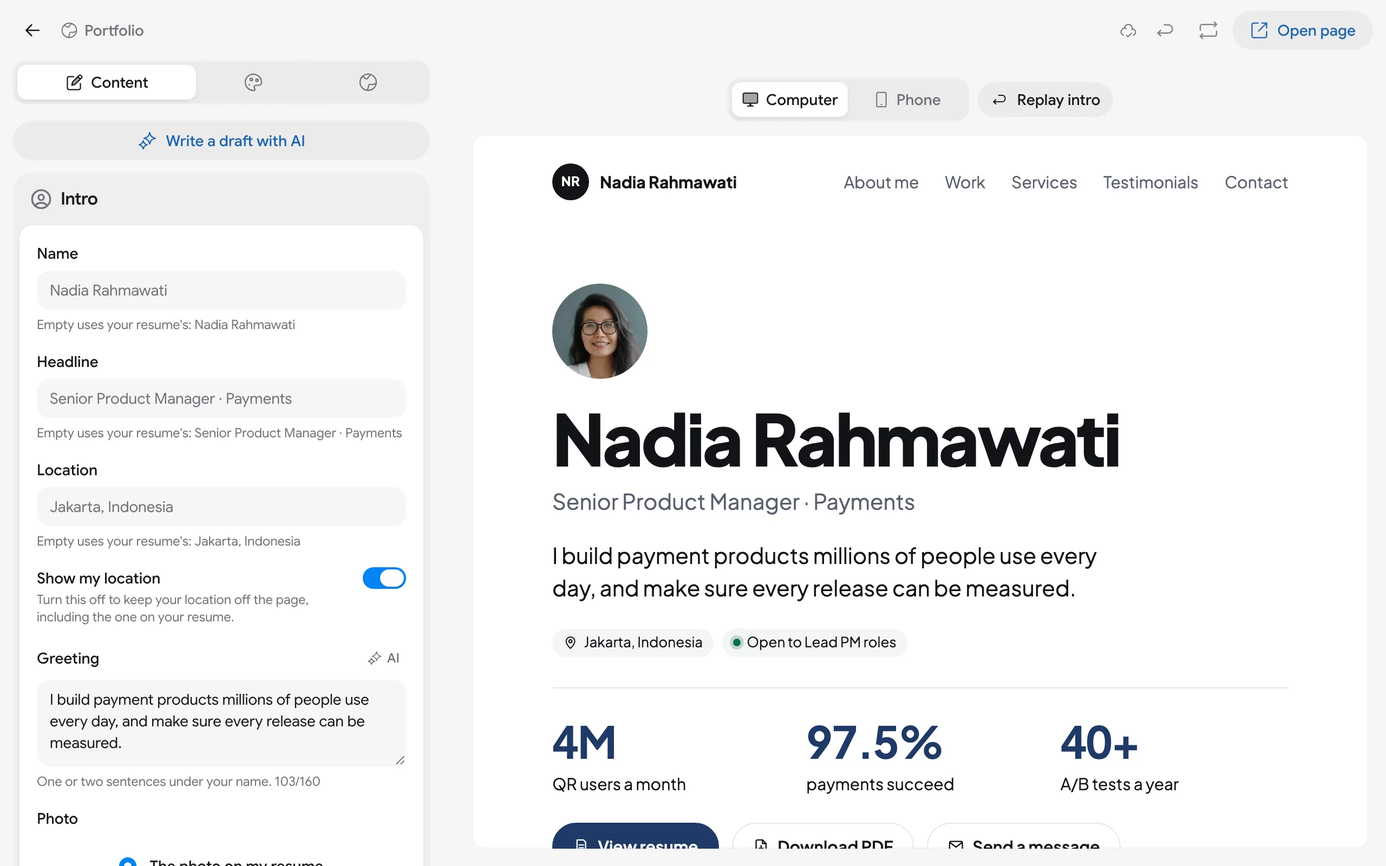
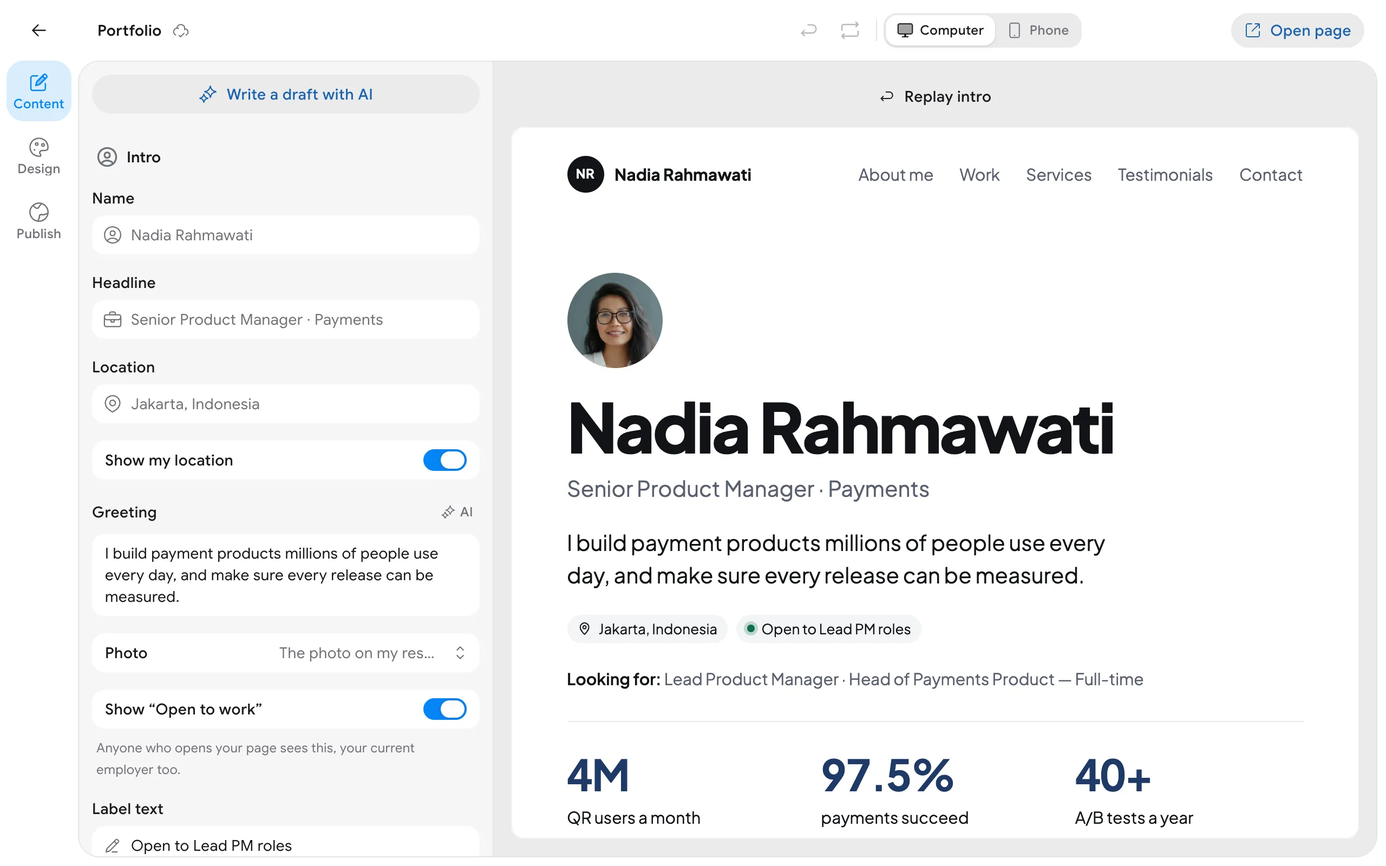
docs: cover work pages, passwords, the business card, embeds and new themes in the portfolio guide
Guide text and fictional screenshots for the phase 13 features, the mobile parity note, and the final session reports.

diff --git a/.agents/docs/plans/portfolio/laporan-phase-13/pf-web.md b/.agents/docs/plans/portfolio/laporan-phase-13/pf-web.md
@@ -195,3 +195,122 @@ Nothing is committed.
 - `pnpm --filter web test`: 146 files, 776 tests passed.
 - `vp lint --deny-warnings` on `apps/web/src/features/portfolio`, `chip-input.tsx`, `routes/dashboard/portfolio`, `libs/dev-server-proxy*.ts` and the E2E spec: no diagnostics. `vp fmt --check` on the same: all formatted.
 - `pnpm lingui:extract` (web only): run; "Add a role…" translated; no portfolio msgstr left empty.
+
+## Guide (`docs/guides/creating-a-portfolio.mdx`)
+
+**Text.** Updated in the guide's existing voice and structure; no new page, so `docs/docs.json` is unchanged. There is no Indonesian twin in `docs/`.
+
+- **Intro:** the portfolio is now "a website" whose home page lists the work, and each work has a page of its own.
+- **Create:** the theme table adds **Sintaks** and **Warta** (Plus), with the gallery's own descriptions.
+- **Write your content:** the Intro buttons include **Save contact**. A new paragraph covers **Open to work** with **Roles you're looking for** (up to five), **Kinds of work** (full-time, part-time, contract, freelance, internship), the "Looking for: …" line, and the warning that a current employer sees it. Contact lists the **Save contact** button, and a paragraph says what the contact card holds and where to turn it on (**Show a Save contact button**, or an Intro button).
+- **Add your work:** "detail" is replaced by the work's **page**. A new section, **A work's own page**, covers:
+  - the address (`rezumi.app/your-username/work/…`), previous and next work, **All work** and the back button;
+  - **Page address**: it follows the title, the allowed characters, **Open page**, and that a changed address forwards from the old one;
+  - which works have no page.
+- **Blocks:** the table adds **Embed**. A new section, **Embeds**, covers:
+  - the five services and **Add an embed**, and **Embed it instead** for a pasted link;
+  - the button-first loading ("Show … here", nothing loads or tracks before the press);
+  - the sharing requirement (Figma viewable by anyone with the link; Google Slides shared with **Anyone with the link**).
+- **Publish:** step 3 now says **Open page** and **Business card**. Two new sections:
+  - **Your business card**: what the card shows, the PNG and SVG downloads, the A4 sheet of 10 cards (85 × 55 mm), full screen, and `?utm_source=qr` shown as **QR code** in statistics.
+  - **Protect it with a password**: at least 6 characters; the private page without name or work; 12 hours per browser; files (pictures, PDFs) open only after the password; search engines don't list it and link previews show a general picture, with **Show in search engines** off; **Change password** ends every visitor's access and file links; 10-minute wait after several wrong tries, and the whole portfolio refusing every try for an hour after about 100 wrong passwords in an hour; **Remove password**.
+- **See visitors and messages:** the period picker (7, 30, 90 days, kept in the address), the timezone line, the click kinds (videos, embeds, contacts saved), the sources including **QR code**, **Per work** with **Details**, and **Download CSV** (Daily numbers, Works, Breakdown with Plus).
+- **What your plan includes:** themes row "All eight, including Sintaks and Warta"; statistics row "Basic numbers, per work" against "Also countries, devices, linking sites". The paragraph under the table lists the features every plan has: Embed, work pages and addresses, Open to work, Save contact, the business card, a password, the three periods and the CSV of basic numbers.
+
+**Labels.** Checked against the current source (Lingui `t`/`Trans` in `intro-form.tsx`, `contact-form.tsx`, `password-group.tsx`, `work-address.tsx`, `business-card-dialog.tsx`, `block-list.tsx`, `add-media-block.tsx`, `media/embeds.ts`, `statistics/*.tsx`, `themes.ts`, and `packages/portfolio/src/messages.ts`), and against the screenshots. Limits come from the code: `PORTFOLIO_SLUG_PATTERN`, `PORTFOLIO_ACCESS_TTL_SECONDS` (12 h), `PORTFOLIO_PASSWORD_FAILURES_PER_HOUR` (100), the lock page's "Wait 10 minutes", and `EMBED_PROVIDER_NAMES`.
+
+**Pictures** (`docs/images/guides/creating-a-portfolio/`). All are 2560×1600 (1280×800 at 2×), light, English UI, `Asia/Jakarta`, WebP q80, with the dev overlays hidden. The fictional persona is Nadia Rahmawati (`portfolio:seed --persona nadia`), on the local dev database only.
+
+- Kept from the earlier round: `editor-content`, `editor-design`, `publish-panel`.
+- Replaced:
+  - `theme-gallery`: the old file showed the empty Portfolio page, not a gallery. It is now the Create dialog's step 2, from a second fictional account without a portfolio.
+  - `work-editor`: the old file showed the removed detail. It is now the work editor with **Page address** beside the work's page in the preview.
+- New: `work-page`, `embed-block`, `business-card`, `lock-page`, `statistics`, `work-statistics`. The statistics come from a fictional 30-day seed; the lock page was shown with a test password set, then removed.
+- Each picture was opened and checked before it went in.
+
+**Mobile handoff.** `.agents/docs/mobile-release-handoff.md` → Feature parity exceptions → Portfolio gains a "Since Phase 13" paragraph: work addresses and the work-page preview, Business card, Password, Embed blocks, Open to work roles and kinds, Save contact, ranged statistics with Per work, Details, the QR source and CSV.
+
+**Preview PDF link (item 2).**
+
+- **Cause:** the published page links a PDF card through `portfolioFileAddress`. The editor preview passed `ownPictureUrl` as `imageUrl`, which accepts pictures only, so the preview's PDF card had no link.
+- **Fix:** `editor/pictures.ts` gains `ownFileUrl(source, origins)`: a picture by `ownPictureUrl`, or a portfolio PDF (`/(api/)uploads/<id>/documents/portfolio/<id>.pdf`) on the app's own origin or its alias, with no query, hash or credentials. That is the server's rule without the file token, which a preview never has. The preview passes it as `imageUrl`.
+- **Tests:** a new case in `pictures.test.ts` covers an own PDF and an own picture (linked), and a PDF on another site, outside `documents/portfolio`, or with a query (not linked).
+
+**Checks (guide round):**
+
+- `pnpm --filter web test src/features/docs`: 2 files, 15 tests passed.
+- `pnpm --filter web exec vp test run src/features/portfolio/editor/pictures.test.ts`: 4 passed.
+- `pnpm --filter web exec tsrs --noEmit`: clean.
+- `vp lint --deny-warnings` on the three changed web files: no diagnostics.
+- `vp fmt --check` on those files, the guide and the handoff: all formatted.
+
+**Lock-page wording (principal's late item).**
+
+- `tooManyTries` no longer names a duration, because a portfolio can also refuse every try for an hour. It now reads "Too many tries. Try again later." in both `apps/web/src/features/portfolio/page-text.ts` and `packages/portfolio/src/messages.ts`.
+- Ran `pnpm exec turbo run lingui:extract --filter=web`. The new msgid is translated in all 55 catalogs (id-ID "Terlalu banyak percobaan. Coba lagi nanti."); the old msgid is gone.
+- Ran `pnpm pdf:translations`: `packages/portfolio/src/portfolio-catalog.json` changed only in this string (54 lines).
+- The one test that asserted the old wording, `packages/portfolio/src/gate.test.ts:41`, now expects the new text. That was a one-line edit in a file another session also has uncommitted changes in.
+- No server or E2E test used the old wording.
+- Checks:
+  - `pnpm --filter @rezumi/portfolio test`: 31 files, 485 tests passed.
+  - `src/features/portfolio/page-text.test.ts` (web): passed.
+  - `src/static/portfolio-page.test.ts` (server): 39 passed.
+- The guide keeps "a visitor waits 10 minutes" for one browser's tries, which is still the per-address window in `visitor-access.ts`.
+
+## E2E (exact results)
+
+**Setup:**
+
+- Production build with `pnpm exec turbo run build`, which is `pnpm build` without its leading `pdf:translations`, so the shared generated files weren't rewritten mid-round. Result: 5 tasks successful. The build includes the other sessions' uncommitted edits in `packages/portfolio`.
+- A fresh disposable database, `rezumi_e2e_pf13`, on the local dev PostgreSQL, created empty and migrated with `pnpm db:migrate`.
+- Environment as in `tests/e2e/README.md`: `APP_URL=http://localhost:3330`, `PORT=3330`, generated `AUTH_SECRET` and `ENCRYPTION_SECRET`, signups and email auth on, `FLAG_DISABLE_API_RATE_LIMIT=true`, `FLAG_ALLOW_UNSAFE_AI_BASE_URL=true`, `STORAGE_BACKEND=local` with a scratch `LOCAL_STORAGE_PATH`, and `PORTFOLIO_MODE=on`.
+- Command: `pnpm test:e2e tests/e2e/specs/portfolio-phase-13.spec.ts tests/e2e/specs/portfolio.spec.ts --workers=1`. Playwright started `node apps/server/dist/index.mjs` itself.
+
+**Run 1: 2 passed, 4 failed.** All four failures were in the spec's selectors or expectations; the app behaved correctly.
+
+1. _Work page:_ `getByText("Times opened")` matched both the KPI title and the chart caption "Times opened per day". The page, Back, the old address's forward and the dashboard count of 1 had all passed before it. **Fix:** `exact: true`.
+2. _Password:_ `getByLabel("Password")` in the dialog also matched the field's "Show password" button. **Fix:** `exact: true`.
+3. _Business card:_ the SVG downloaded as `e2e-2-portfolio-…-qr.svg`, while the spec expected the raw username with underscores. `cardFileName` keeps only letters, digits and dashes, as designed and unit-tested. **Fix:** the spec now names the file the same way.
+4. _Embed:_ the link prompt is the app's `usePrompt`, a HeroUI `AlertDialog` (role `alertdialog`), so `getByRole("dialog")` waited until the test timed out. **Fix:** `getByRole("alertdialog")`.
+
+**Run 2** (database dropped, recreated and migrated again; same build): **6 passed (32.5s)**, 0 failed.
+
+- `portfolio-phase-13.spec.ts`: 5/5 passed.
+  - A work page, Back to home, an old address forwarding to the new one, and the owner's Per work row showing 1 with its Details dialog.
+  - Password lock, a wrong password, unlocking, and the work page opening with the same access.
+  - The vCard response, plus the business card's `utm_source=qr` value and SVG download.
+  - An Embed block shown as a facade with no iframe.
+  - The 7/30/90 range kept in the address across a reload.
+- `portfolio.spec.ts`: 1/1 passed. It never used the removed detail dialog (it creates, publishes and checks the greeting), so it needed no change.
+
+**Server log during the runs:** every editor open logs `ORPCError: Custom domains aren't set up on this server.` (412, `PRECONDITION_FAILED`) from the custom-domain query, because the test server has no custom-domain config. No test failed on it, but it is noisy, and it may be worth answering that state without an error log (server layer).
+
+**Cleanup:**
+
+- The disposable database was dropped after the run.
+- On the shared dev database, the docs persona accounts `portfolio13-docs@example.test` and `portfolio13-docs-new@example.test` (fictional) remain for future picture refreshes.
+- `.claude/launch.json` keeps the `rezumi-portfolio-docs` entry (ports 3280/3281).
+
+**Run 3** (final tree, after pf-render and pf-server finished, HEAD `def5cba3` plus the working tree): same steps from scratch.
+
+- Fresh `rezumi_e2e_pf13`; `pnpm db:migrate` exit 0.
+- `turbo run build`: 5 tasks successful.
+- Playwright run in the foreground: exit 0, **6 passed (30.1s), 0 failed, 0 skipped, 0 flaky**.
+  - `tests/e2e/specs/portfolio-phase-13.spec.ts`: 5 passed.
+  - `tests/e2e/specs/portfolio.spec.ts`: 1 passed.
+- Nothing was skipped: both specs skip only without `PORTFOLIO_MODE=on`, which was set.
+- No failure in another layer, so there are no traces to hand over.
+- The test database was dropped afterwards.
+
+## Final checks (final tree, exact results)
+
+- `pnpm --filter web typecheck` (`tsrs --noEmit`): exit 0.
+- `pnpm --filter web test`: 146 files, 777 tests passed.
+- `pnpm --filter @rezumi/portfolio test`: 31 files, 485 tests passed.
+- `pnpm --filter web test src/features/docs`: 2 files, 15 tests passed.
+- `vp lint --deny-warnings` on the paths below: exit 0, no diagnostics. The paths:
+  - `apps/web/src/features/portfolio` and the portfolio routes (`builder/portfolio`, `dashboard/portfolio`, `dashboard/admin/portfolios`);
+  - `chip-input.tsx` and `dev-server-proxy.ts` (+ test);
+  - both portfolio E2E specs;
+  - `packages/portfolio/src/messages.ts` and `gate.test.ts`.
+- `vp fmt --check` on the same paths plus the guide, the mobile handoff and this report: 143 files, all formatted.

diff --git a/.agents/docs/mobile-release-handoff.md b/.agents/docs/mobile-release-handoff.md
@@ -276,6 +276,6 @@ Prior local checks recorded in the audit passed: API 399 unit and 71 isolated re
 ## Feature parity exceptions
 
 - **Everything is web-first by owner decision, 2026-11-04:** the mobile app is not being worked on, so new features land on web only until the owner asks for mobile work (see `AGENTS.md` → Native mobile app). Mobile catches up before its first store release. Known web-only work so far: resume template revamp builder controls (cv-templates Phase 04: icon picker by category and style, template preset button, custom field labels, skill chips, gallery field filter; see `.agents/docs/plans/cv-templates/README.md`) and the membership plan and credit UI (membership Phase 08).
-- **Portfolio** (portfolio plan, `.agents/docs/plans/portfolio/README.md`) is web-only so far and **must reach the app before its first store release**. Web has, since Phase 03 (2026-11-06): the Portfolio item in the dashboard sidebar (shown only when `portfolio.get().enabled`, i.e. `PORTFOLIO_MODE` lets the account in), `/dashboard/portfolio` (create from a resume or without one, status card, delete), and the full-screen editor at `/builder/portfolio` (Content, Design and Publish tabs with a live preview drawn by `@rezumi/portfolio` in the browser; autosave through `portfolio.update` with `expectedUpdatedAt` and a reload-on-conflict dialog; publishing through `portfolio.setPublic`, search engines and source resume through `portfolio.updateSettings`). The resume's Share panel says when the published portfolio holds the short link. Mobile needs the same, plus its own Share screen's "Short link"/"Primary resume" text (`apps/mobile/src/features/share/web-page.tsx`, left as it was in Phase 02). All data rules live in shared packages (`@rezumi/schema/portfolio/*`, `@rezumi/portfolio`, `packages/api/src/features/portfolio`), so the app only needs screens. Since Phase 04 (2026-11-06) web also has picture uploads shrunk in the browser (`apps/web/src/features/portfolio/images`, then `portfolio.uploadImage`; the app will need its own resize/re-encode before calling it, since the server never resizes), the work editor (add work empty, from resume projects through `portfolio.importWorks`, or from many pictures; card with cover focus point, highlighted metric; Text/Pictures/Metrics blocks with a "/" menu and a case study outline), metric forms, achievement numbers, testimonial photos, client logos and an intro background picture. Since Phase 05 (2026-11-06) web also has Video blocks (YouTube/Vimeo, title through `portfolio.unfurl`, thumbnail copied with `portfolio.fetchRemoteImage` + `uploadImage`), PDF blocks (the browser checks the file, counts pages and draws page 1 with PDF.js, then `uploadImage` for the picture and `portfolio.uploadPdf`; the app needs its own PDF reader for the page picture), Link blocks and "Add work → Paste a link" (`portfolio.unfurl`; suggested pictures are copied only after the person agrees), and the Location card's city search (bundled GeoNames list `apps/web/src/features/portfolio/location/cities.txt`), precision and map (HeroUI Pro `Map` in the editor; light and dark map pictures made off screen with MapLibre and uploaded as `location.map`; the app needs a native map and its own snapshot). Since Phase 06 (2026-11-06) web also has the themes in a picture gallery (Lugas, Prima, Kanvas, Mozaik; Paper and Brutal added on 2026-11-07) in the create dialog and the Design tab (pictures in `apps/web/public/portfolio-themes/`, English and `id/`), and Design → Intro with the intro background and the intro effect picker (live samples drawn with `@rezumi/portfolio/effects`, the same CSS and scripts the page uses; "Replay intro" plays the effect in the preview from the editor's own script). The page renders on the server, so the app only needs the gallery and the picker; a native sample of each effect can stay a still picture. Later phases add statistics and messages to the same editor. Since Phase 09 (2026-11-09) web also shows a custom domain's step-by-step status and plan notices (`stage`, `problem`, `plan` from `customDomain.get`), and a Publish tab and dashboard entry for it; the app's Share screen still shows only verified or not, and will need the same. Since Phase 10 (2026-11-09) web also has AI in the portfolio: an optional draft step when creating one and a draft button in the editor (`portfolio.ai.draft`), a small AI menu on long text fields (`portfolio.ai.rewrite`), and "Find numbers" beside metric lists (`portfolio.ai.findMetrics`). The API writes nothing: the app applies each answer to its own draft, as one undoable change.
+- **Portfolio** (portfolio plan, `.agents/docs/plans/portfolio/README.md`) is web-only so far and **must reach the app before its first store release**. Web has, since Phase 03 (2026-11-06): the Portfolio item in the dashboard sidebar (shown only when `portfolio.get().enabled`, i.e. `PORTFOLIO_MODE` lets the account in), `/dashboard/portfolio` (create from a resume or without one, status card, delete), and the full-screen editor at `/builder/portfolio` (Content, Design and Publish tabs with a live preview drawn by `@rezumi/portfolio` in the browser; autosave through `portfolio.update` with `expectedUpdatedAt` and a reload-on-conflict dialog; publishing through `portfolio.setPublic`, search engines and source resume through `portfolio.updateSettings`). The resume's Share panel says when the published portfolio holds the short link. Mobile needs the same, plus its own Share screen's "Short link"/"Primary resume" text (`apps/mobile/src/features/share/web-page.tsx`, left as it was in Phase 02). All data rules live in shared packages (`@rezumi/schema/portfolio/*`, `@rezumi/portfolio`, `packages/api/src/features/portfolio`), so the app only needs screens. Since Phase 04 (2026-11-06) web also has picture uploads shrunk in the browser (`apps/web/src/features/portfolio/images`, then `portfolio.uploadImage`; the app will need its own resize/re-encode before calling it, since the server never resizes), the work editor (add work empty, from resume projects through `portfolio.importWorks`, or from many pictures; card with cover focus point, highlighted metric; Text/Pictures/Metrics blocks with a "/" menu and a case study outline), metric forms, achievement numbers, testimonial photos, client logos and an intro background picture. Since Phase 05 (2026-11-06) web also has Video blocks (YouTube/Vimeo, title through `portfolio.unfurl`, thumbnail copied with `portfolio.fetchRemoteImage` + `uploadImage`), PDF blocks (the browser checks the file, counts pages and draws page 1 with PDF.js, then `uploadImage` for the picture and `portfolio.uploadPdf`; the app needs its own PDF reader for the page picture), Link blocks and "Add work → Paste a link" (`portfolio.unfurl`; suggested pictures are copied only after the person agrees), and the Location card's city search (bundled GeoNames list `apps/web/src/features/portfolio/location/cities.txt`), precision and map (HeroUI Pro `Map` in the editor; light and dark map pictures made off screen with MapLibre and uploaded as `location.map`; the app needs a native map and its own snapshot). Since Phase 06 (2026-11-06) web also has the themes in a picture gallery (Lugas, Prima, Kanvas, Mozaik; Paper and Brutal added on 2026-11-07) in the create dialog and the Design tab (pictures in `apps/web/public/portfolio-themes/`, English and `id/`), and Design → Intro with the intro background and the intro effect picker (live samples drawn with `@rezumi/portfolio/effects`, the same CSS and scripts the page uses; "Replay intro" plays the effect in the preview from the editor's own script). The page renders on the server, so the app only needs the gallery and the picker; a native sample of each effect can stay a still picture. Later phases add statistics and messages to the same editor. Since Phase 09 (2026-11-09) web also shows a custom domain's step-by-step status and plan notices (`stage`, `problem`, `plan` from `customDomain.get`), and a Publish tab and dashboard entry for it; the app's Share screen still shows only verified or not, and will need the same. Since Phase 10 (2026-11-09) web also has AI in the portfolio: an optional draft step when creating one and a draft button in the editor (`portfolio.ai.draft`), a small AI menu on long text fields (`portfolio.ai.rewrite`), and "Find numbers" beside metric lists (`portfolio.ai.findMetrics`). The API writes nothing: the app applies each answer to its own draft, as one undoable change. Since Phase 13 (2026-11-12) web also has: a page address per work in the work editor (`slug`, with `previousSlugs` kept so old addresses forward; `/<username>/work/<slug>` is drawn by the server) and a preview that shows the open work as its own page; the Business card dialog in Publish (QR code of the address with `?utm_source=qr`, PNG and SVG downloads, an A4 print sheet of 10 cards, full screen; QR drawn in the browser by `apps/web/src/features/portfolio/card`); the Password group in Publish (`portfolio.setPassword` / `portfolio.removePassword`; the lock page, access cookie and file tokens are server-side); Embed blocks (Figma, Loom, Spotify, SoundCloud, Google Slides, parsed by `@rezumi/schema/portfolio/embed`, with an optional picture); Open to work roles and kinds of work in Intro (`hero.availability.roles/types`) and the Save contact switch and button kind (vCard served by the server); and statistics with 7, 30 and 90 day ranges kept in the address, a Per work table with a Details dialog (`portfolio.workStatistics`), the QR code source, and CSV downloads (daily numbers, works, Plus breakdown). The app needs these screens; the Sintaks and Warta themes need only their gallery pictures.
 - Applications CSV import/export is web-only on mobile by owner decision, 2026-10-19.
 - Navigation and layout restructure is web-first by owner decision, 2026-11-03; mobile follows later. Web changes: Home (Career's former Today, plus Recent documents and the first-run start while there are no documents) is the landing page at `/dashboard`; Documents moved to `/dashboard/documents`; the sidebar is flat (Home, Applications, Documents, Coach, Knowledge, Offers; the Career submenu is gone); Applications List shows a list/detail split from 1536px. Native still has the tabs Documents, Applications, New, Career, Settings (`apps/mobile/app/(tabs)/_layout.tsx`). Recent documents is already in Career's Today on native (a swipeable row of first-page previews and a New document tile, `apps/mobile/src/features/career/recent-documents.tsx`), and leads the screen, as it does on web. To match the rest: make Home the first tab (Recent documents, Needs you, Coming up, New roles, Schedules, and the first-run start without documents), rename Career's Today to Home, and surface Knowledge and Offers without the Career group. Server notification URLs stay `/dashboard/career…` on purpose: web forwards them to Home with `?schedule=` kept, and old binaries keep parsing them.

diff --git a/.agents/docs/plans/portfolio/laporan-phase-13/pf-render.md b/.agents/docs/plans/portfolio/laporan-phase-13/pf-render.md
@@ -172,3 +172,96 @@ Changes made after looking:
 
 - **The editor preview's default card links (`#work-<slug>`) lead nowhere**, because no dialog exists any more. pf-web's preview draws `page: { kind: "work" }` when a work is open (contract 3.1). Clicking a card inside the inert preview is pf-web's to handle if wanted.
 - **The two Sintaks/Warta Open to work tests** belong to pf-themes. I left them failing rather than touching their files.
+
+## Integration (render side)
+
+### Done
+
+- **`themes.test.ts`:** `SINTAKS_CSS` and `WARTA_CSS` are now in `THEME_CSS`, and the intro-background check loops over all eight theme CSS files.
+- **Persona header comments** (`tooling/portfolio/persona.ts`, `previews.ts`): Raka (Sintaks) and Laras (Warta) are listed, and the comments say their portraits are illustrations, not photos.
+- **Visual matrix:** `portfolio:matrix --personas own --parts pages,details --lang en`.
+  - Eight themes × variants A/B/C/D × light/dark × 390/1440, plus each theme's first work page in A and D (RTL). That is 192 shots, and none scrolls sideways.
+  - Seen with my own eyes, at a readable size: Sintaks and Warta home and work pages in A, B, C and D, phone and desktop, light and dark. The other six themes were checked in the work-page round above.
+- **Fix: the metric change text keeps its own direction (`<bdi>` in `shared/metric.tsx`).** On RTL pages, "4× the site" used to read "the site ×4". This affects all eight themes.
+- **Reading time (Warta cover story):** the rule is sound, since `readingMinutes` counts the work's own text on the portfolio. The contradiction came from the persona: its highlighted metric "Average reading time 11:40" was the magazine's figure. In Laras' persona, "Shares in the first week" is now the card's highlight, and the time metric is labelled "Time spent on the magazine's story".
+- **Embeds:**
+  - Raka gained Loom and Figma embeds; he already had Google Slides.
+  - Laras already had Spotify and SoundCloud.
+  - Every provider renders inside Sintaks or Warta.
+- **Tooling:** `writePersonaPage` takes `background: "soft-gradient" | "pattern" | "image"` (`image` uses the first work's cover), so intro backgrounds can be drawn on demand.
+- **Checks:**
+  - `@rezumi/portfolio` typecheck passes, and 485/485 tests pass.
+  - `@rezumi/tooling` typecheck passes.
+  - Lint and format are clean on the changed files.
+
+### Second pass (after the limit reset)
+
+**Looked at, with my own eyes, in Chrome:**
+
+- **Intro backgrounds on Sintaks and Warta:** soft gradient, pattern and picture, light and dark, 1440 and 390 px.
+- **Embed close-ups in all eight themes:** Raka's Loom, Figma and Google Slides and Laras' Spotify, light at 1440 and dark at 390. SoundCloud, which uses the same audio-shape markup as Spotify, was seen earlier on Kanvas.
+- **The lock page:** light and dark, English and Arabic, with the wrong-password message.
+- **Chrome PDF prints:** Sintaks (dark) and Warta (light), home and work page.
+- **Matrix crops of Lugas, Prima, Kanvas, Mozaik, Paper and Brutal:**
+  - minimal at 390 light;
+  - long at 390 dark and 1440 light;
+  - RTL at 1440 dark and 390 light;
+  - the RTL work page at 390 dark.
+- **Sintaks and Warta** in all four variants, home and work page (first pass).
+
+**Fixed:**
+
+1. **Accent text over a picture intro was unreadable on light pictures.** Measured 1.8:1, for example Warta's kicker and "Open to …" line.
+   - The default picture shade is now `rgb(8 10 14/.7)` → `.78`, as Mozaik already used.
+   - Accent text over a picture is the dark accent mixed 45% with white, giving about 4.4:1 even on a white picture and 5:1 on the persona's.
+   - Affects every theme that draws a picture intro; no persona uses one, so the gallery pictures don't change.
+2. **"Open to work" and trend colours over a picture kept their light-mode tones.** Sintaks' chip text was almost invisible over a picture in light mode.
+   - `designCss` now emits `--pf-positive-dark` and `--pf-negative-dark`.
+   - `[data-bg="image"]` switches to them, as it already did for text and accent.
+3. **Printed primary buttons lost their fill.** Browsers drop backgrounds on paper, which made Warta's "Commission a story" white on white.
+   - Primary buttons and `.pf-chip--open` now keep their fill in print (`print-color-adjust: exact`).
+   - Checked on Warta's PDF.
+4. **RTL work cards: an English summary's full stop jumped to the line start** (Lugas, Brutal, Mozaik; the themes draw summaries as spans).
+   - The per-block direction rule now also covers `[class$="__title"]`, `[class$="__summary"]`, `[class$="__desc"]` and `[class$="__dek"]`.
+   - Checked on Lugas and Brutal RTL.
+5. **Lock page on an Arabic page: untranslated English sentences put their full stop at the start.**
+   - `h1`, `p` and `label` take their own direction there (`unicode-bidi: plaintext`).
+
+New assertions sit in `themes.test.ts` (fixes 1, 2 and 4), `page.test.tsx` (fix 3) and `gate.test.ts` (fix 5).
+
+**Tried and reverted:**
+
+- `overflow-wrap: break-word` on metric values, to stop Paper's narrow RTL stat cell splitting "مليون".
+- Arabic compact numbers join the digit and the word with a no-break space, so the value then overflowed into its neighbour, which is worse.
+- Values keep `anywhere`. A mid-word break of a long Arabic unit in a three-column phone strip is the remaining cosmetic issue.
+
+**Not regenerated:** gallery pictures. No theme's top of page changed:
+
+- the picture shade applies only to picture intros, which no persona uses;
+- the print rules apply only on paper;
+- the direction rule doesn't change left-to-right pages;
+- Laras' metric order sits below the fold.
+
+**Checks:**
+
+- `@rezumi/portfolio`: typecheck passes; 485/485 tests pass in 31 files.
+- `@rezumi/tooling`: typecheck passes.
+- `vp lint --deny-warnings` and `vp fmt --check`: clean on the 12 changed files.
+
+### Still open
+
+- **Arabic persona pages show untranslated interface strings,** for example "Pages:" and the lock page text. That is catalog work (`pnpm pdf:translations` and the Arabic `.po` file), not render code.
+- **Mozaik's long variant on a phone:** Save contact sits alone in the location tile, because Mozaik places Contact's parts in separate tiles. This is by design, and the button is labelled.
+
+### Superseded first-pass note (all items above were later done)
+
+- **Rendered but not looked at.** A scratch script rendered these into my scratchpad, and no page scrolled sideways, but I didn't review them by eye:
+  - Sintaks and Warta intro backgrounds (gradient, pattern, picture);
+  - embed close-ups in both themes;
+  - the lock page (light/dark, LTR/RTL);
+  - Chrome PDF prints of both new themes' home and work pages.
+
+  To redo: `writePersonaPage(..., { background })`, then `portfolio:preview --theme sintaks --persona raka --works`, and Chrome print.
+
+- **Gallery pictures weren't regenerated.** No top-of-page look changed: the `<bdi>` fix and the persona metric order sit below the fold.
+- **Arabic persona pages show the "Pages:" label in English next to Arabic digits** in the PDF card. This is a catalog translation gap, not a render bug.
